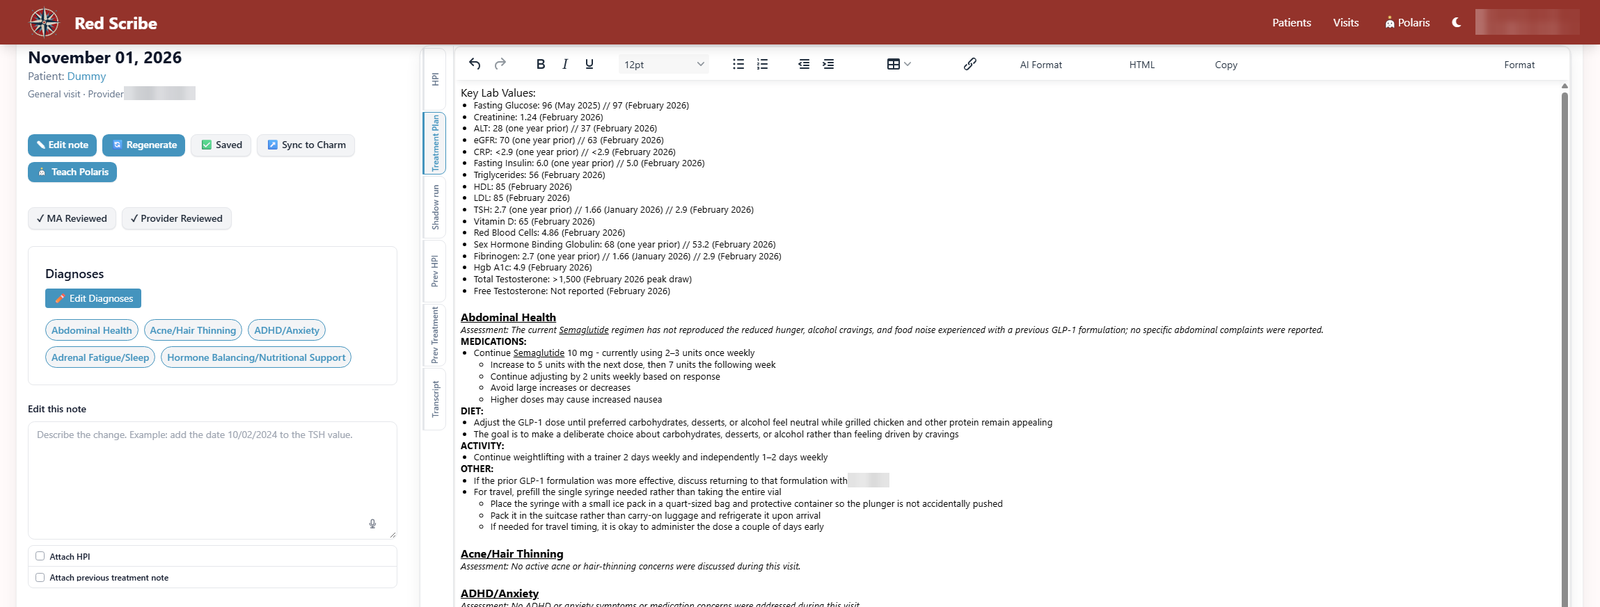
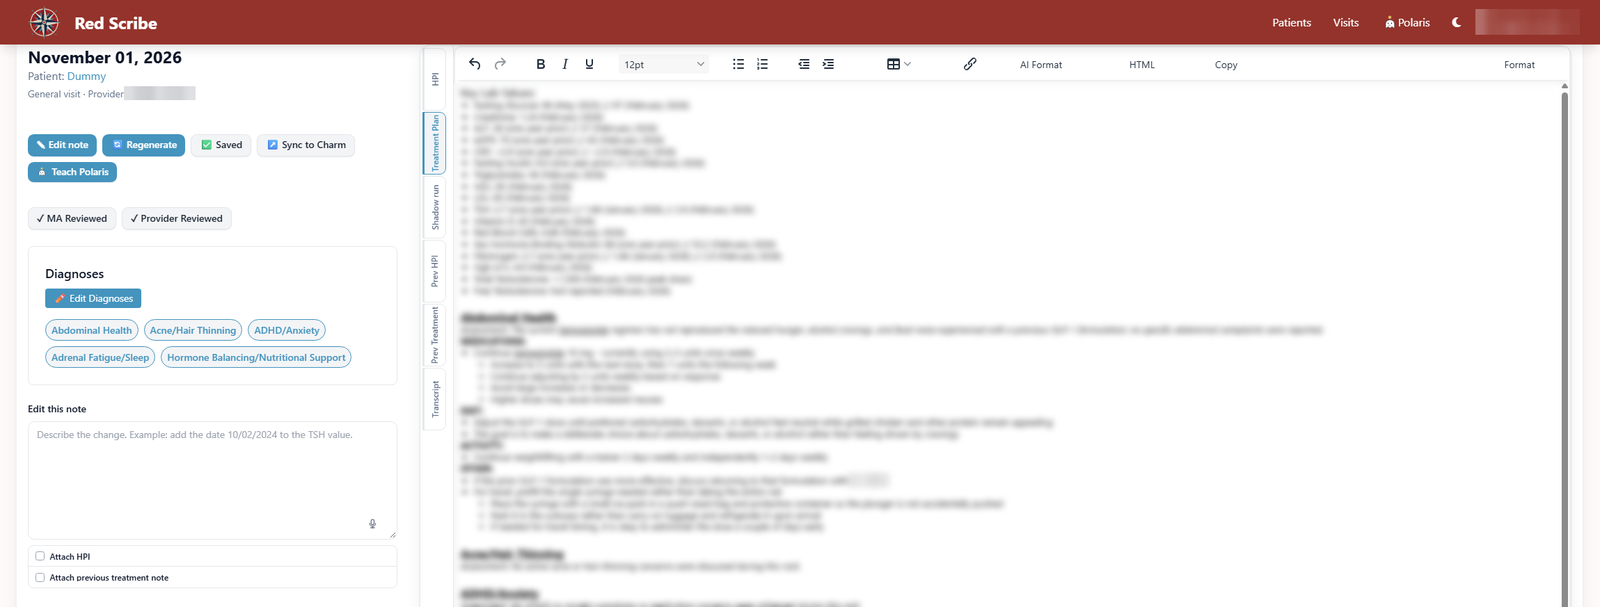
Blur Red Scribe note text; update Gospel Library link
Claude-Session: https://claude.ai/code/session_017ufPofVa9qaWVYk2AGyS9g

Changed region(s): [[0.2812, 0.1483, 0.8438, 1.0]]

diff --git a/README.md b/README.md
@@ -49,7 +49,7 @@ A scripture reader for web, iOS, and Android. It covers the basics of the Gospel
 
 `Flutter` `Firebase` `OpenAI embeddings`
 
-[Live app](https://gosepl-library.web.app)
+[Live app](https://gospel-library.web.app)
 
 <p align="center"><img src="assets/gospel-library.png" width="640" alt="Gospel Library 2.0 library, reader with study notes beside each verse, and side-by-side KJV and NLT compare"></p>
 
